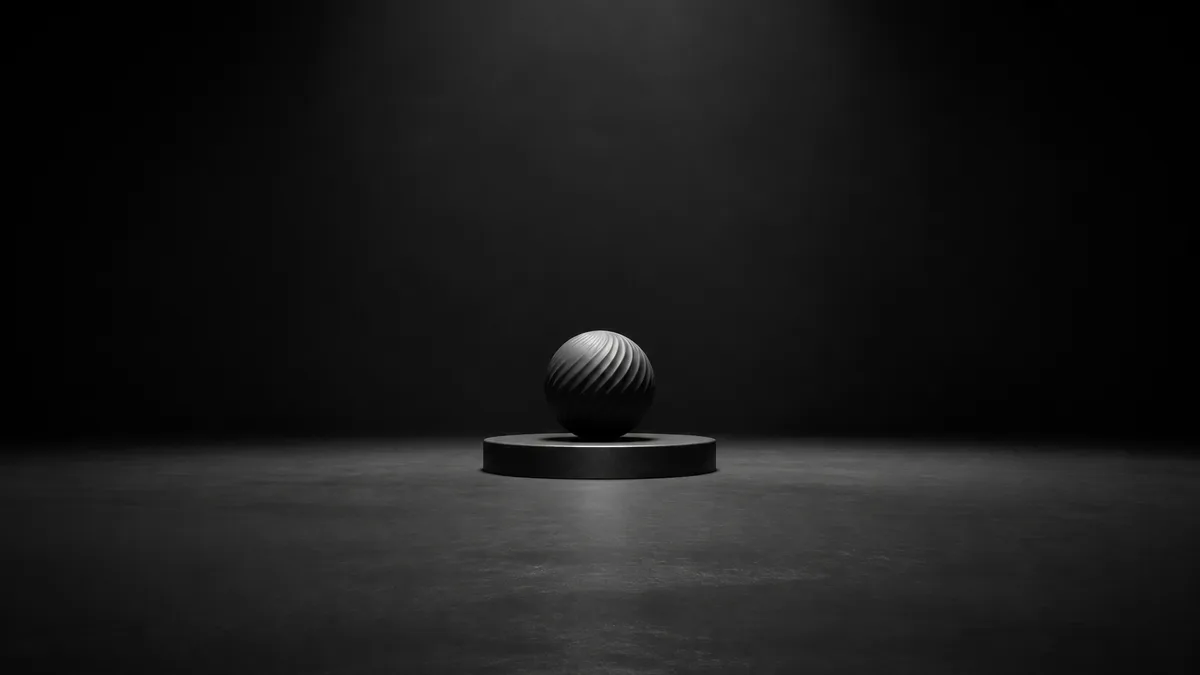
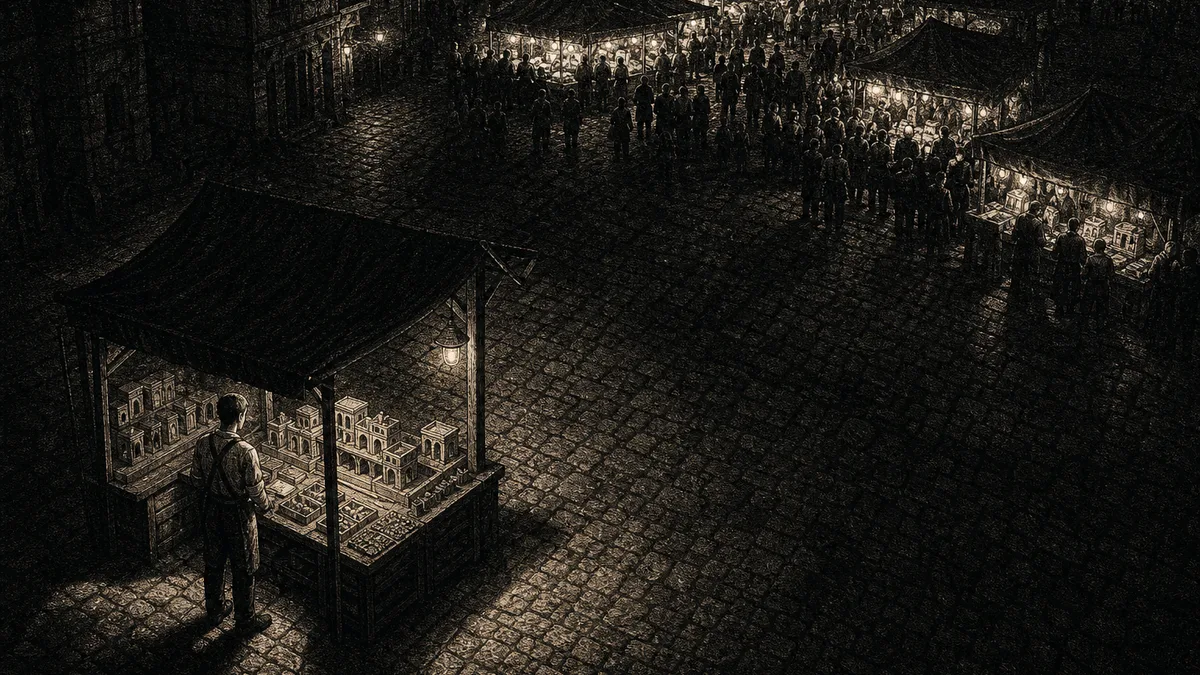
feat(blog): estilo de capa em gravura pontilhada
Novo estilo `engraving` no gerador de capas: cena narrativa em gravura
pontilhada, preto e creme quente. A paleta passa a ser definida por
estilo, então render3d e halftone continuam em cinza puro.

A capa de distribution-was-the-product passa a usar esse estilo (a
feira noturna). Guia e referências em docs/blog-covers/.

diff --git a/apps/portfolio/lib/blog/cover-styles.ts b/apps/portfolio/lib/blog/cover-styles.ts
@@ -4,18 +4,32 @@
 // mantido em sincronia com ele: mexer no estilo de um lado recalibra a marca
 // dos dois sites, que é o ponto.
 //
-// prompt = <estilo> + <assunto do post, de coverSubject no JSON> + <restrições>
+// prompt = <estilo> + <assunto do post, de coverSubject no JSON> + <restrições> + <paleta do estilo>
+//
+// Guia de uso e assuntos que funcionaram: docs/blog-covers/README.md
+
+const GRAYSCALE = "Strictly monochrome grayscale, no color at all."
 
 export const COVER_STYLES = {
   render3d: {
     label: "Render 3D escuro",
     prompt:
       "Moody dark studio 3D render. Matte black and graphite geometric objects in a minimal composition. Soft rim lighting, shallow depth of field, premium minimal product-photography feel, near-black background, lots of negative space.",
+    palette: GRAYSCALE,
   },
   halftone: {
     label: "Halftone / risografia",
     prompt:
       "Risograph-inspired abstract editorial illustration. Coarse halftone dot texture, bold simple geometric shapes, near-black background printed with off-white and mid-gray ink only, visible print grain and slight misregistration.",
+    palette: GRAYSCALE,
+  },
+  // Cena narrativa com personagem, no lugar de objeto abstrato. O creme quente
+  // nos realces é parte do estilo: em cinza puro a gravura perde o ar de papel.
+  engraving: {
+    label: "Gravura pontilhada",
+    prompt:
+      "Dark editorial illustration in the style of a fine stippled ink engraving. Dense black shadows, highlights rendered in warm off-white stipple and fine linework, heavy film grain and paper texture, strong single light source, cinematic wide composition, quiet contemplative mood.",
+    palette: "Monochrome, near-black and warm off-white only, no other color.",
   },
 } as const
 
@@ -27,7 +41,7 @@ export const ACTIVE_COVER_STYLE: CoverStyleId = "render3d"
 // É também por isso que ela diverge do resend.com, onde o título vive dentro
 // da imagem: com cinco idiomas isso seriam cinco imagens por post.
 export const COVER_CONSTRAINTS =
-  "Absolutely no text, no letters, no numbers, no logos, no watermarks. Strictly monochrome grayscale, no color at all."
+  "Absolutely no text, no letters, no numbers, no logos, no watermarks, no readable screens."
 
 export function isCoverStyleId(value: string): value is CoverStyleId {
   return Object.hasOwn(COVER_STYLES, value)
@@ -37,5 +51,6 @@ export function buildCoverPrompt(
   subject: string,
   style: CoverStyleId = ACTIVE_COVER_STYLE,
 ): string {
-  return `${COVER_STYLES[style].prompt} ${subject.trim()} ${COVER_CONSTRAINTS}`
+  const { prompt, palette } = COVER_STYLES[style]
+  return `${prompt} ${subject.trim()} ${COVER_CONSTRAINTS} ${palette}`
 }

diff --git a/docs/blog-covers/README.md b/docs/blog-covers/README.md
@@ -1,0 +1,67 @@
+# Capas do blog
+
+Como gerar capas com `pnpm blog:cover` e o que já funcionou. Os estilos vivem em
+[`apps/portfolio/lib/blog/cover-styles.ts`](../../apps/portfolio/lib/blog/cover-styles.ts).
+
+## Fluxo
+
+```bash
+nvm use 24
+cd apps/portfolio
+pnpm blog:cover <slug> --style engraving   # 3 candidatas em .covers/<slug>/ (gitignored)
+pnpm blog:cover <slug> --pick 2            # vira public/blog/<slug>/{cover.webp,og.jpg}
+```
+
+O prompt é montado como `<estilo> + <coverSubject do post> + <restrições> + <paleta do estilo>`.
+O `coverSubject` fica no JSON do post, em inglês, e descreve só a cena. Estilo, cor e a
+regra de "sem texto" já vêm do código.
+
+O `--pick` corta a imagem 3:2 para 16:9 (`cover.webp`) e 1200×630 (`og.jpg`), ambos
+centralizados. Deixe o que importa longe das bordas de cima e de baixo.
+
+## Estilos
+
+| id | visual | quando usar |
+| --- | --- | --- |
+| `render3d` | objetos geométricos foscos, estúdio escuro | padrão; posts técnicos e conceituais |
+| `halftone` | risografia abstrata, pontos grossos | alternativa abstrata |
+| `engraving` | gravura pontilhada, preto e creme quente, cena com personagem | posts pessoais e narrativos, e divulgação no LinkedIn |
+
+## `engraving`: gravura pontilhada
+
+Nasceu na capa de [`distribution-was-the-product`](../../apps/portfolio/data/posts/distribution-was-the-product.json),
+a partir de uma referência de um dev sentado num quarto escuro, olhando por uma porta aberta
+para uma paisagem com lua. O creme quente nos realces é proposital: em cinza puro a gravura
+perde o ar de papel impresso.
+
+O que faz funcionar:
+
+- **Uma metáfora, não um objeto.** A cena conta a tese do post (produto pronto, ninguém chegando).
+- **Personagem de costas ou pequeno no quadro.** Dá identificação sem virar retrato.
+- **Uma fonte de luz forte** e muito preto em volta.
+- **Contraste de escala:** algo pequeno e isolado contra algo grande e cheio.
+
+### Assuntos que funcionaram
+
+**Feira**: escolhida como capa do post.
+
+![feira](engraving-feira.jpg)
+
+> A night market seen from a high angle: a single small immaculate stall, beautifully lit, with a young builder standing behind it seen from behind, and not a single visitor in front of it. Further down the street, large established stalls glow brightly with dense crowds gathered around them. Long shadows, empty cobblestones in the foreground
+
+**Cidade no horizonte**
+
+![cidade](engraving-cidade.jpg)
+
+> A young developer seen from behind, sitting on the doorstep of a small cluttered home workshop at night, a desk with a glowing monitor and a phone showing a finished app behind him. Through the open doorway, a vast dark empty plain stretches out; far away on the horizon a dense, brightly lit city full of crowds and tall glowing towers. No road, no path and no footprints connect the doorstep to the city.
+
+**Quarto e janela**
+
+![quarto](engraving-quarto.jpg)
+
+> A dark bedroom at night, a young developer seen from behind sitting on the edge of the bed, looking at a desk where a monitor glows with a finished app. The window beside the desk opens onto a vast busy city far below, thousands of lit windows, crowds in the streets, none of them looking up. The room feels isolated and silent.
+
+### Cuidados
+
+- Telas de monitor tendem a sair com texto. A restrição `no readable screens` segura isso, mas confira.
+- Multidões no fundo às vezes ficam com rostos estranhos quando vistas de perto. No tamanho do card, não aparece.
